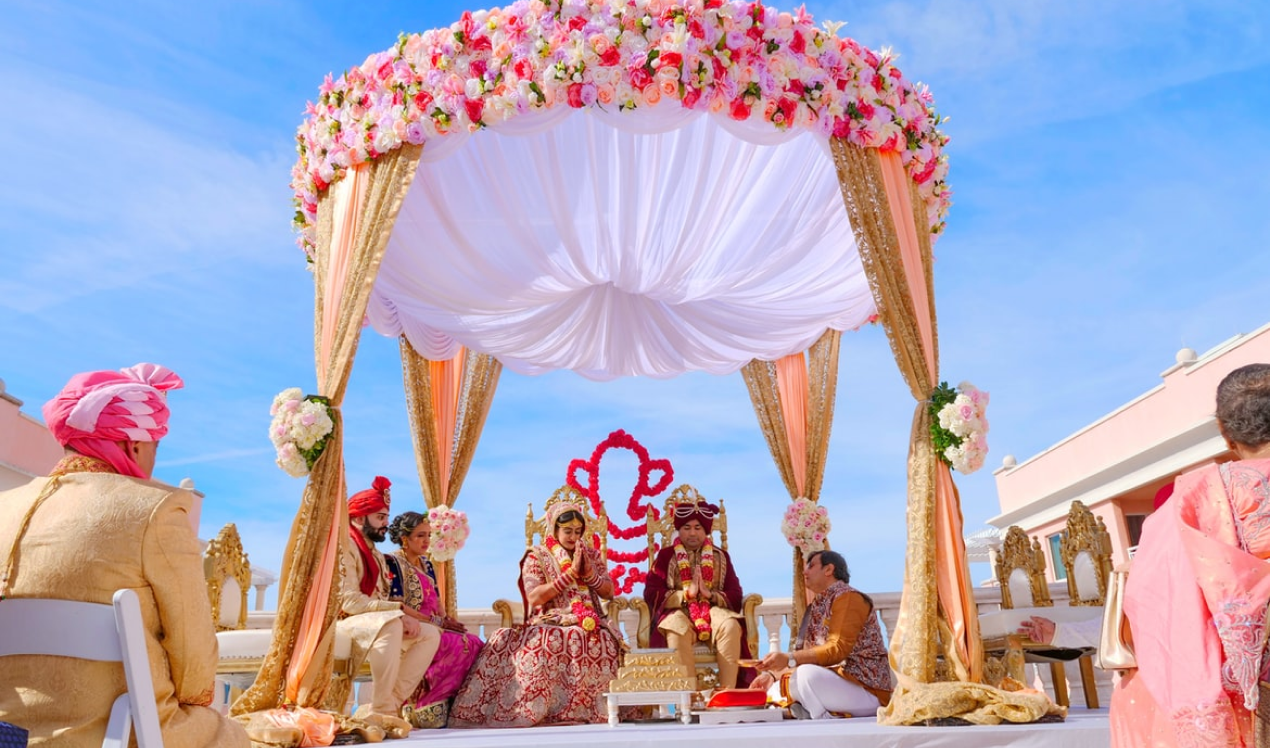
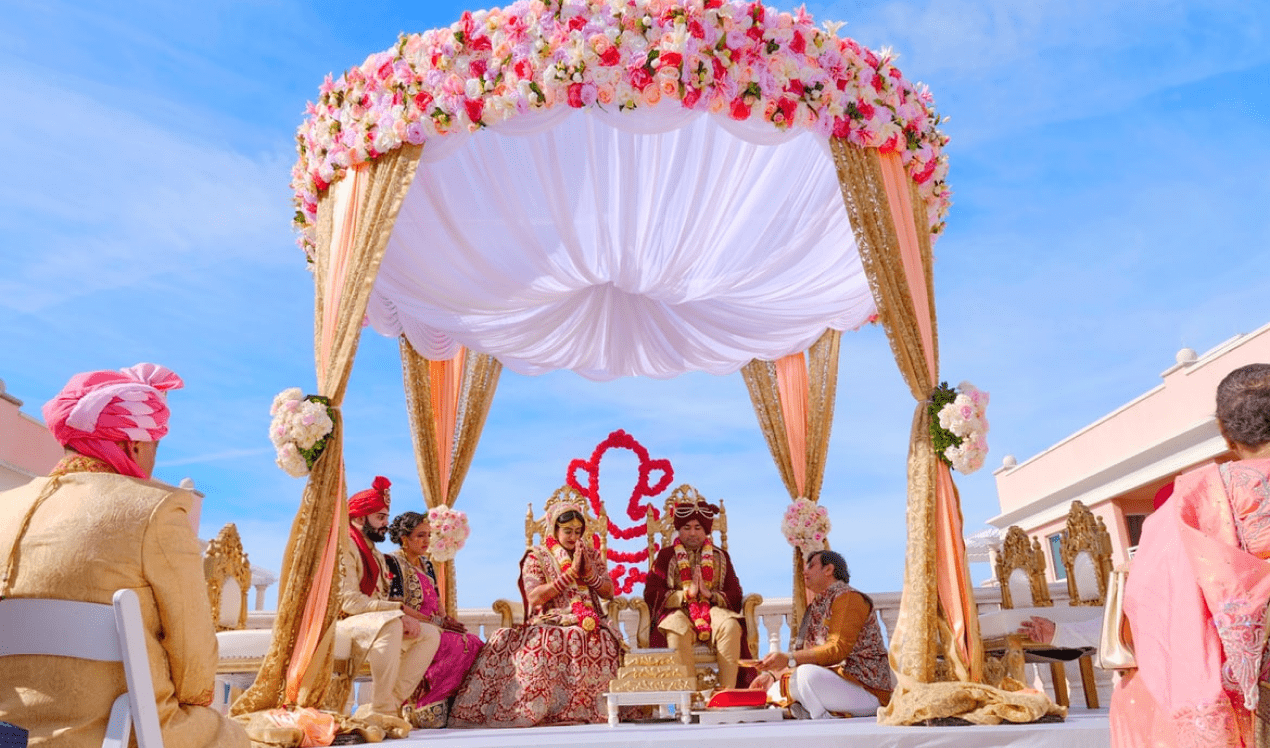
'change'

diff --git a/src/screens/page/about.js b/src/screens/page/about.js
@@ -25,7 +25,7 @@ function About() {
         <div className="owner">
           <div className="owner-image">
             <div className="owner-image-bracket"></div>
-            <img src="./images/team4.png" alt="" />
+            <img src="./images/team4.jpg" alt="" />
             <div className="owner-image-shadow"></div>
           </div>
           <div className="owner-detail">
@@ -52,7 +52,7 @@ function About() {
 
         <div className="main-about-grid">
           <div className="about">
-            <img src="./images/team5.png" alt="" />
+            <img src="./images/team5.jpg" alt="" />
             <div className="content">
               <div className="data">
                 <h6>Abhishek Dana</h6>
@@ -61,7 +61,7 @@ function About() {
             </div>
           </div>
           <div className="about">
-            <img src="./images/team5.png" alt="" />
+            <img src="./images/team5.jpg" alt="" />
             <div className="content">
               <div className="data">
                 <h6>Abhishek Dana</h6>
@@ -70,7 +70,7 @@ function About() {
             </div>
           </div>
           <div className="about">
-            <img src="./images/team.png" alt="" />
+            <img src="./images/team.jpg" alt="" />
             <div className="content">
               <div className="data">
                 <h6>Abhishek Dana</h6>
@@ -79,7 +79,7 @@ function About() {
             </div>
           </div>
           <div className="about">
-            <img src="./images/team.png" alt="" />
+            <img src="./images/team.jpg" alt="" />
             <div className="content">
               <div className="data">
                 <h6>Abhishek Dana</h6>

diff --git a/src/style.css b/src/style.css
@@ -533,10 +533,6 @@ p {
   transition: 0.25s linear;
 }
 
-.main-Gallery-container .mosary .items img:hover {
-  transform: scale(1.5);
-}
-
 .main-Gallery-container .mosary .items video {
   width: 100%;
   transition: 0.25s linear;
@@ -832,4 +828,23 @@ button:hover {
 input:focus,
 textarea:focus {
   outline: none;
+}
+
+@media only screen and (max-width: 1024px) {
+  .main-about-grid {
+    display: flex;
+    flex-direction: column;
+  }
+
+  .owner {
+    display: flex;
+    flex-direction: column;
+  }
+  .main-services-grid {
+    grid-template-columns: auto auto;
+  }
+
+  .mosary {
+    column-count: 2;
+  }
 }

diff --git a/src/screens/page/carousel.js b/src/screens/page/carousel.js
@@ -90,14 +90,14 @@ function Carousel() {
               <div className="carousel_slide">
                 <img
                   className="carousel_image"
-                  src={"./images/slider2.png"}
+                  src={"./images/slider2.jpg"}
                   alt=""
                 />
               </div>
               <div className="carousel_slide">
                 <img
                   className="carousel_image"
-                  src={"./images/slider3.png"}
+                  src={"./images/slider3.jpg"}
                   alt=""
                 />
               </div>

diff --git a/src/component/view/Footer.js b/src/component/view/Footer.js
@@ -7,7 +7,10 @@ function Footer() {
 
       <p>
         Design & Developed By{" "}
-        <a href="https://github.com/BISWAJITABISWAL"> Biswajita Biswal</a>
+        <a className="text-primary" href="https://github.com/BISWAJITABISWAL">
+          {" "}
+          Biswajita Biswal
+        </a>
       </p>
     </footer>
   );

diff --git a/src/screens/page/Contact.js b/src/screens/page/Contact.js
@@ -72,7 +72,7 @@ function Contact() {
             </div>
             <div class="contact-card ">
               <div class="images">
-                <img src="./images/image2.png" alt="" />
+                <img src="./images/image2.jpg" alt="" />
               </div>
               <div class="form">
                 <div

diff --git a/src/screens/page/Gallary.js b/src/screens/page/Gallary.js
@@ -79,7 +79,7 @@ function Gallary() {
                   return (
                     <>
                       <div
-                        key={item.id}
+                        key={index}
                         onClick={() => showImageModal(item)}
                         class="items"
                       >
